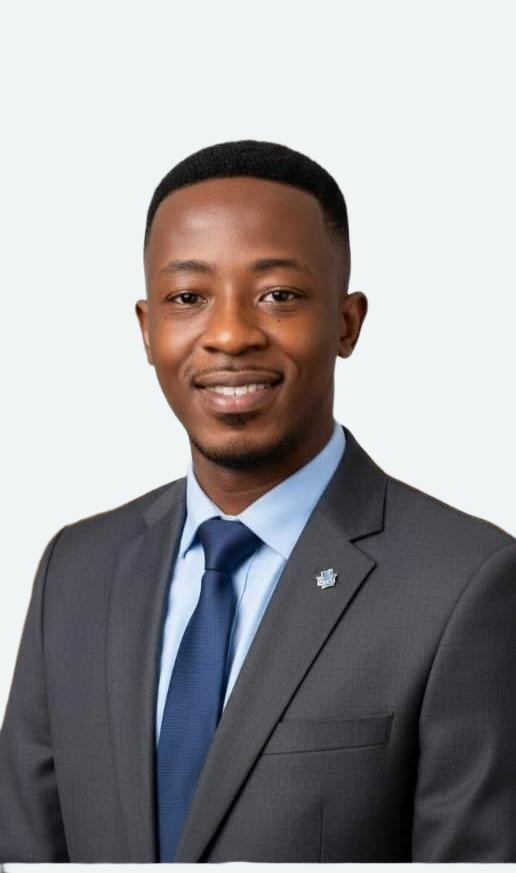
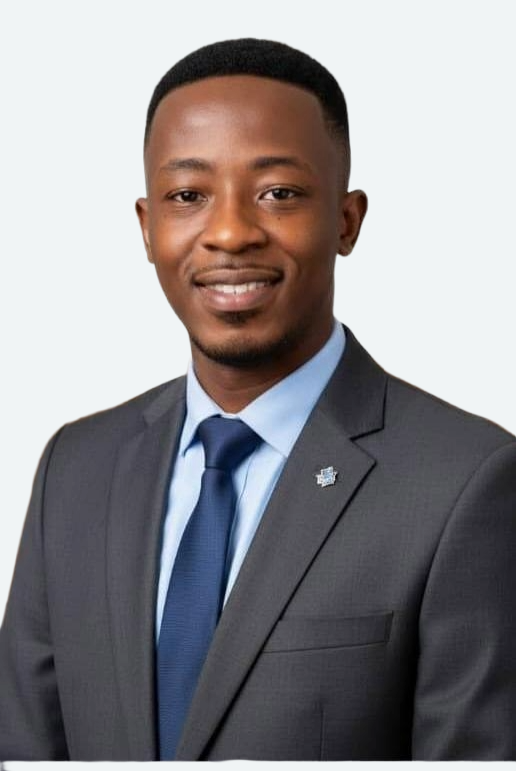
Updated styling

diff --git a/styles.css b/styles.css
@@ -40,7 +40,7 @@ header.scrolled{
 .container{
   display: flex;
   align-items: center;
-  justify-content: space-around;
+  justify-content: space-evenly;
   margin: auto;
   height: 100%;
 
@@ -100,6 +100,7 @@ header.scrolled{
   align-items: center;
   min-height: 700px;
   height: auto;
+  gap: 50px;
 
 
 }
@@ -160,8 +161,9 @@ font-family: "Quicksand", sans-serif;
 }
 
 .profile-pic img{
-  width: 80%;
-  border-radius: 30%;
+  width: 70%;
+  height: 100%;
+  border-radius: 50%;
   
 }
 .hero {
@@ -179,7 +181,6 @@ font-family: "Quicksand", sans-serif;
   margin: 30px auto;
     box-shadow: 0 1px 10px rgba(0, 0, 0, 0.1);
     border-radius: 30px;
-    margin-top: 30px;
 
 }
 
@@ -269,6 +270,7 @@ font-family: "Quicksand", sans-serif;
     width: 100%;
     max-width: 400px;
     margin-top: 20px;
+    padding: 10px;
 }
 
 .tab-content.active {

diff --git a/index.html b/index.html
@@ -109,6 +109,12 @@
 
             <div class="progress">
                 <div class="progress-bar yellow" style="width: 80%;"></div>
+                       <div class="experience-item">
+           
+        </div>
+
+    </div>
+                </div>
             </div>
         </div>
 
@@ -116,10 +122,13 @@
 
 
     <!-- Experience -->
-    <div class="tab-content" >
+  
 
 
-        <div class="experience-item">
+    <div class="tab-content" id="experience">
+
+
+        <div class="experience-item" >
             <h3>Web Developer</h3>
             <p class="date">2025 - Present</p>
             <p>
